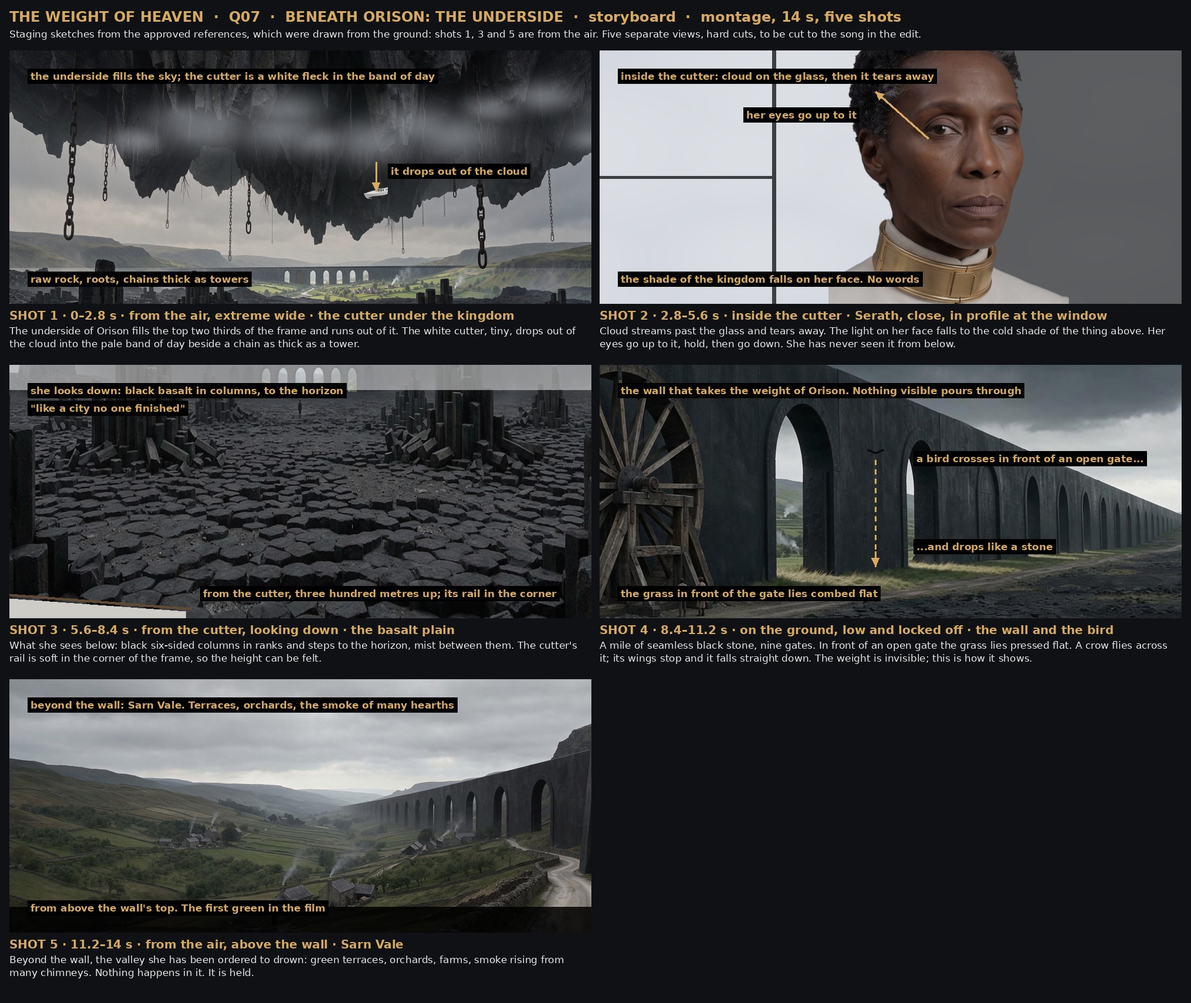
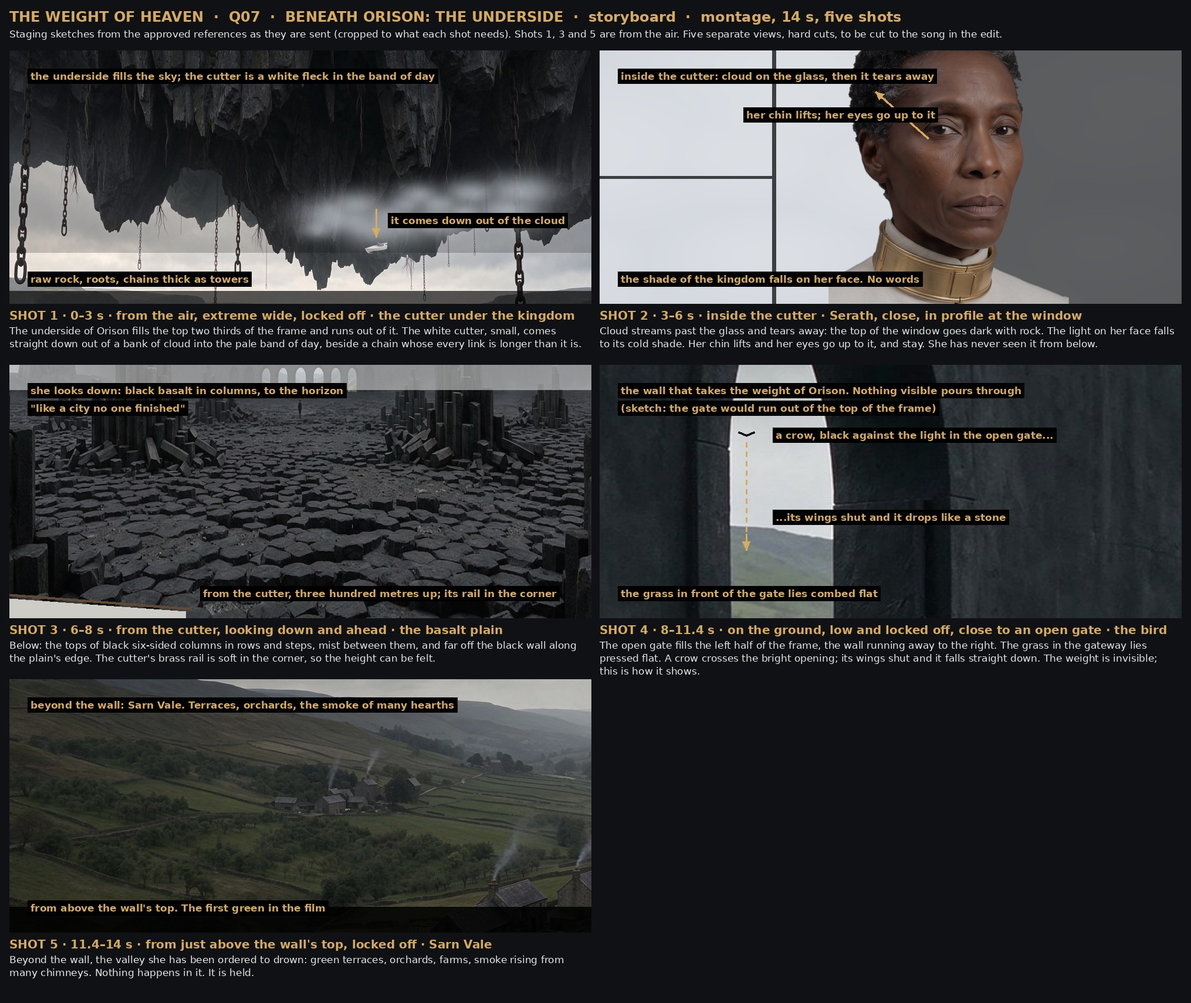
The Weight of Heaven: Q07 package revised after the independent review; not run
Same five shots and the approved 14 s. The four places are attached as crops
that hold only what each shot needs (no water wheel, no people, one wall); the
cutter as one view. Shot 4 is closer, the bird black against the bright gate;
shot 2 ends on her look up; shots 1 and 5 are locked off. The author's go came
before these changes, so the take waits for a go on the revised package.
Lessons 111-112.

Claude-Session: https://claude.ai/code/session_01Ufmw2p65L6HH4goCKZmAJH

diff --git a/ai-film/the-weight-of-heaven/tools/board_q07.py b/ai-film/the-weight-of-heaven/tools/board_q07.py
@@ -20,7 +20,7 @@ img, arr, note, arrow, GOLD, INK, PAPER, BOLD, REG = b4.img, b4.arr, b4.note, b4
 
 
 def env(name, box):
-    """A crop of an environment reference, as fractions of its width and height (x0, y0, x1, y1), at the frame's shape."""
+    """A crop of a reference, as fractions of its width and height (x0, y0, x1, y1), at the frame's shape."""
     im = Image.open(P('refs', name)).convert('RGB'); w, h = im.size
     return arr(im.crop((int(box[0] * w), int(box[1] * h), int(box[2] * w), int(box[3] * h))).resize((W, H), Image.LANCZOS))
 
@@ -45,7 +45,7 @@ def sheet(cells, path):
     S = Image.new('RGB', (pad * 2 + W * 2 + gap, hd + rows * (H + cap) + pad), INK)
     d = ImageDraw.Draw(S)
     d.text((pad, 14), 'THE WEIGHT OF HEAVEN  ·  Q07  ·  BENEATH ORISON: THE UNDERSIDE  ·  storyboard  ·  montage, 14 s, five shots', fill=GOLD, font=f0)
-    d.text((pad, 48), 'Staging sketches from the approved references, which were drawn from the ground: shots 1, 3 and 5 are from the air. '
+    d.text((pad, 48), 'Staging sketches from the approved references as they are sent (cropped to what each shot needs). Shots 1, 3 and 5 are from the air. '
                       'Five separate views, hard cuts, to be cut to the song in the edit.', fill=PAPER, font=f2)
     for k, (im, title, text) in enumerate(cells):
         x = pad + (k % 2) * (W + gap); y = hd + (k // 2) * (H + cap)
@@ -65,13 +65,14 @@ def sheet(cells, path):
 def main():
     boat = cutter()
     # 1. the cutter drops out of the cloud under the mass
-    a = env('ENV_E04_beneath-orison.jpg', (0.0, 0.0, 1.0, 0.72))
-    a[:int(H * 0.86)] = a[:int(H * 0.86)] * 0.78                                   # the mass two stops under the band, roughly
-    a = b4.mist(a, W * 0.62, H * 0.30, W * 0.9, H * 0.16, seed=4, amount=0.55, tone=(0.74, 0.76, 0.79))
-    a = b4.over(a, boat, cx=W * 0.63, foot=H * 0.585, height=20)
+    a = env('crops/Q07_underside.jpg', (0.0, 0.0, 1.0, 1.0))                       # the reference as it is sent: the underside and the band only
+    a[:int(H * 0.80)] = a[:int(H * 0.80)] * 0.80                                   # the mass two stops under the band, roughly
+    a[int(H * 0.95):] = a[int(H * 0.95):] * 0.35                                   # a thin strip of the plain
+    a = b4.mist(a, W * 0.63, H * 0.66, W * 0.22, H * 0.12, seed=4, amount=0.8, tone=(0.74, 0.76, 0.79))
+    a = b4.over(a, boat, cx=W * 0.63, foot=H * 0.80, height=19)
     c1 = img(a); d = ImageDraw.Draw(c1)
     note(d, (36, 34), 'the underside fills the sky; the cutter is a white fleck in the band of day')
-    arrow(d, (625, 190), (625, 240), w=3); note(d, (650, 196), 'it drops out of the cloud')
+    arrow(d, (625, 270), (625, 318), w=3); note(d, (650, 280), 'it comes down out of the cloud')
     note(d, (36, 380), 'raw rock, roots, chains thick as towers')
     # 2. her face at the window
     g = np.zeros((H, W, 3), np.float32) + np.array([0.80, 0.82, 0.85], np.float32)
@@ -81,7 +82,7 @@ def main():
     c2 = img(g); d = ImageDraw.Draw(c2)
     d.line([(int(W * 0.30), 0), (int(W * 0.30), H)], fill=(60, 62, 66), width=7); d.line([(0, int(H * 0.50)), (int(W * 0.30), int(H * 0.50))], fill=(60, 62, 66), width=5)
     note(d, (36, 34), 'inside the cutter: cloud on the glass, then it tears away')
-    arrow(d, (560, 150), (470, 70), w=4); note(d, (250, 100), 'her eyes go up to it')
+    arrow(d, (560, 150), (470, 70), w=4); note(d, (250, 100), 'her chin lifts; her eyes go up to it')
     note(d, (36, 380), 'the shade of the kingdom falls on her face. No words')
     # 3. the plain from the cutter's height
     a = env('ENV_E05_basalt-plain.jpg', (0.10, 0.52, 0.90, 1.0)); a = a * 0.9
@@ -92,34 +93,35 @@ def main():
     note(d, (36, 64), '"like a city no one finished"')
     note(d, (330, 380), 'from the cutter, three hundred metres up; its rail in the corner')
     # 4. the wall and the bird
-    a = env('ENV_E06_the-weir.jpg', (0.30, 0.22, 0.86, 0.80))
+    a = env('crops/Q07_wall.jpg', (0.005, 0.385, 0.265, 0.535))                     # close on the first open gate, from the reference as it is sent
     c4 = img(a); d = ImageDraw.Draw(c4)
-    bx, by = 470, 150
+    bx, by = 250, 120
     d.line([(bx - 14, by - 6), (bx, by), (bx + 14, by - 6)], fill=(10, 10, 12), width=4)
-    for yy in range(by + 12, 330, 16):
+    for yy in range(by + 12, 300, 16):
         d.line([(bx, yy), (bx, yy + 8)], fill=GOLD, width=3)
-    arrow(d, (bx, 318), (bx, 344), w=3)
+    arrow(d, (bx, 288), (bx, 316), w=3)
     note(d, (36, 34), 'the wall that takes the weight of Orison. Nothing visible pours through')
-    note(d, (540, 150), 'a bird crosses in front of an open gate...')
-    note(d, (540, 300), '...and drops like a stone')
+    note(d, (36, 64), '(sketch: the gate would run out of the top of the frame)')
+    note(d, (300, 110), 'a crow, black against the light in the open gate...')
+    note(d, (300, 250), '...its wings shut and it drops like a stone')
     note(d, (36, 380), 'the grass in front of the gate lies combed flat')
     # 5. the vale beyond
-    a = env('ENV_E07_sarn-vale.jpg', (0.0, 0.04, 0.80, 0.86))
+    a = env('crops/Q07_vale.jpg', (0.0, 0.14, 1.0, 0.74))                           # the reference as it is sent: the valley only
     a[int(H * 0.90):] = a[int(H * 0.90):] * 0.15                                    # the wall's top, a black edge under us
     c5 = img(a); d = ImageDraw.Draw(c5)
     note(d, (36, 34), 'beyond the wall: Sarn Vale. Terraces, orchards, the smoke of many hearths')
     note(d, (36, 380), 'from above the wall\'s top. The first green in the film')
 
     cells = [
-        (c1, 'SHOT 1 · 0–2.8 s · from the air, extreme wide · the cutter under the kingdom',
-         'The underside of Orison fills the top two thirds of the frame and runs out of it. The white cutter, tiny, drops out of the cloud into the pale band of day beside a chain as thick as a tower.'),
-        (c2, 'SHOT 2 · 2.8–5.6 s · inside the cutter · Serath, close, in profile at the window',
-         'Cloud streams past the glass and tears away. The light on her face falls to the cold shade of the thing above. Her eyes go up to it, hold, then go down. She has never seen it from below.'),
-        (c3, 'SHOT 3 · 5.6–8.4 s · from the cutter, looking down · the basalt plain',
-         'What she sees below: black six-sided columns in ranks and steps to the horizon, mist between them. The cutter\'s rail is soft in the corner of the frame, so the height can be felt.'),
-        (c4, 'SHOT 4 · 8.4–11.2 s · on the ground, low and locked off · the wall and the bird',
-         'A mile of seamless black stone, nine gates. In front of an open gate the grass lies pressed flat. A crow flies across it; its wings stop and it falls straight down. The weight is invisible; this is how it shows.'),
-        (c5, 'SHOT 5 · 11.2–14 s · from the air, above the wall · Sarn Vale',
+        (c1, 'SHOT 1 · 0–3 s · from the air, extreme wide, locked off · the cutter under the kingdom',
+         'The underside of Orison fills the top two thirds of the frame and runs out of it. The white cutter, small, comes straight down out of a bank of cloud into the pale band of day, beside a chain whose every link is longer than it is.'),
+        (c2, 'SHOT 2 · 3–6 s · inside the cutter · Serath, close, in profile at the window',
+         'Cloud streams past the glass and tears away: the top of the window goes dark with rock. The light on her face falls to its cold shade. Her chin lifts and her eyes go up to it, and stay. She has never seen it from below.'),
+        (c3, 'SHOT 3 · 6–8 s · from the cutter, looking down and ahead · the basalt plain',
+         'Below: the tops of black six-sided columns in rows and steps, mist between them, and far off the black wall along the plain\'s edge. The cutter\'s brass rail is soft in the corner, so the height can be felt.'),
+        (c4, 'SHOT 4 · 8–11.4 s · on the ground, low and locked off, close to an open gate · the bird',
+         'The open gate fills the left half of the frame, the wall running away to the right. The grass in the gateway lies pressed flat. A crow crosses the bright opening; its wings shut and it falls straight down. The weight is invisible; this is how it shows.'),
+        (c5, 'SHOT 5 · 11.4–14 s · from just above the wall\'s top, locked off · Sarn Vale',
          'Beyond the wall, the valley she has been ordered to drown: green terraces, orchards, farms, smoke rising from many chimneys. Nothing happens in it. It is held.'),
     ]
     sheet(cells, P('design/boards/Q07_board.jpg'))

diff --git a/ai-film/the-weight-of-heaven/prompts/Q07.md b/ai-film/the-weight-of-heaven/prompts/Q07.md
@@ -1,6 +1,6 @@
 # Q07 — Beneath Orison: the underside (B12)
 
-**v1 · images only, the author's AUTEUR VIDEO PROMPT as it will be sent.** Seedance 2.5 on fal, task `reference`, 21:9, 480p, sound on. Scene 5 of the screenplay (actions A31–A35), no dialogue. **Status: package built on the author's word (26 November): "So Q07 now... Remember to check the screenplay, still frame etc for inspiration". An independent review of the prompt is running. Nothing generated. Waiting for the author.**
+**v1 · images only, the author's AUTEUR VIDEO PROMPT as it will be sent.** Seedance 2.5 on fal, task `reference`, 21:9, 480p, sound on. Scene 5 of the screenplay (actions A31–A35), no dialogue. **Status: package built on the author's word (26 November): "So Q07 now... Remember to check the screenplay, still frame etc for inspiration". Staging accepted ("Proceed"). Revised after an independent review (`edit/reviews/Q07_v1_prompt_review.md`): the same five shots at the same 14 s, with the references cropped and three shots reframed. The author's "Go" came before the review reported and before the revised package was shown, so it has not been used. Nothing generated. Waiting for the author's go on the revised package.**
 
 Q07 is the first reel of the second music montage (III. Below). It does not chain from Q06: a montage reel is short separate shots, made by place, and cut to the song in the edit.
 
@@ -21,22 +21,22 @@ Q07 is the first reel of the second music montage (III. Below). It does not chai
 
 | Shot | Time | Picture |
 | --- | --- | --- |
-| 1 | 0–2.8 s | From the air, extreme wide. The underside of Orison fills the top two thirds of the frame; the white cutter, tiny, drops out of the cloud into the pale band of day beside a chain as thick as a tower |
-| 2 | 2.8–5.6 s | Inside the cutter. Serath close, in profile at the window. Cloud tears away from the glass; the shade of the kingdom falls on her face; her eyes go up, then down |
-| 3 | 5.6–8.4 s | From the cutter, looking down. The basalt plain in columns to the horizon, the cutter's rail soft in the corner |
-| 4 | 8.4–11.2 s | On the ground, low, locked off. The black wall and an open gate; the grass in front of it combed flat; a crow crosses and falls straight down |
-| 5 | 11.2–14 s | From the air, just above the wall's top. Sarn Vale: terraces, orchards, farms, the smoke of many hearths. Held |
+| 1 | 0–3 s | From the air, extreme wide, locked off. The underside of Orison fills the top two thirds of the frame; the white cutter, one twenty-fifth of the frame wide, comes straight down out of a bank of cloud into the pale band of day, beside a chain whose every link is longer than it is |
+| 2 | 3–6 s | Inside the cutter. Serath close, in profile at the window. The cloud tears away and the top of the window goes dark with rock; the light on her face falls by half; her chin lifts and her eyes go up to it, and stay |
+| 3 | 6–8 s | From the moving cutter, looking down and ahead. The tops of the basalt columns to the far edge of the plain, where the black wall lies; the cutter's brass rail soft in the corner |
+| 4 | 8–11.4 s | On the ground, low, locked off, close to an open gate that fills the left half of the frame. The grass in the gateway combed flat; a crow, black against the light in the gate, shuts its wings and falls straight down; two seconds of the grass shivering round it |
+| 5 | 11.4–14 s | From just above the wall's top, locked off. Sarn Vale: terraces, orchards, farms, the smoke of many hearths. Held |
 
 ## It is a music montage
 
 - The four montages are cut to an original song (`design/SONG.md`); this one is the song's second verse, "Below": eight bars and a two-bar tag at 84 BPM, 28.6 s, shared with Q08. Q07's share is about four bars, 11.4 s.
-- A bar is 2.86 s. Each shot is generated at 2.8 s so that it can fill a bar or be cut to half of one.
+- A bar is 2.86 s. The cutter, her face and the bird are generated at 3 s or more, so that each can fill a bar after its ends are trimmed; the plain and the valley are shorter and will be half-bars or less. The reviewer recommended 16 s (about $3.53); the take stays at the 14 s and $3.09 the author was shown.
 - **The song does not exist yet.** Its words are still a proposal in `design/SONG.md`, and the plan there is that the song is made first and the montages are cut to it. Movement I was made without it. So these shots are timed to the planned bars and will be recut when there is a song. A question for the author: approve the words and make the song before more montage reels, or carry on and recut later?
 - The video model is asked for natural sound only. The verse that goes over these pictures: "We built it wide, we built it low, / we learned to walk the way you lean; / eight hundred years we held the shade / of gardens we have never seen."
 
 ## Why it is staged this way
 
-- **The thing, then the one who sees it, then what she sees.** The cutter under the mass; her face, eyes up and then down; then down: the plain, the wall, the valley. Cameron's rule that a look is answered by what it looks at.
+- **The one who sees it, and the thing.** Her face, eyes going up; the cutter under the mass; then what is below: the plain, the wall, the valley. Shot 2 ends on her look up, so in the edit the underside can answer it. Cameron's rule that a look is answered by what it looks at.
 - **Size is shown by something small and known.** The cutter is a fleck beside a chain; its rail sits in the corner of the view down; smoke and sheep give the valley its size.
 - **The weight is invisible, so it is shown by what it does.** Flat grass and a bird that falls, the screenplay's own image, as one cause and effect in one frame.
 - **The last shot is the valley she has been ordered to drown, and nothing happens in it.**
@@ -55,26 +55,42 @@ Studied before the board was drawn (lesson 103), on StillsLab: Arrival (98 frame
 | Small things on a vast plain with great structures in haze (Dune, the landing field) | Shot 4: the bird against the wall |
 | A band of light at the horizon under a dark lid; a valley held wide and still under cloud (Arrival) | Every shot is exposed for the band of day; shot 5 is held |
 
+## What the independent review changed
+
+| Finding | Change |
+| --- | --- |
+| The wall's reference carries a water wheel many times a man's height and two people in its left third: both would come into shot 4, and a water wheel beside arches is the strongest water cue there is | The wall is attached as a crop without them (`refs/crops/Q07_wall.jpg`) |
+| Shots 1 and 5 would come back as their references' own ground views, each with a different wall in it (seven arches and a village in one, about fourteen in the other); a sentence saying "these were drawn from the ground" has failed before (lesson 105) | The underside is attached as rock, chains and pale band only (`refs/crops/Q07_underside.jpg`); the valley as terraces, farms and smoke only, two thirds of a stop darker (`refs/crops/Q07_vale.jpg`); the sentence is gone. The wall now comes only from the plain's reference (far) and the wall's (near) |
+| The cutter's sheet is four boats on grey | One view of it (`refs/crops/Q07_cutter.jpg`); "There is one cutter, alone in the sky" |
+| Shot 4: a crow at twenty metres is about 3 % of the frame, black against a black wall, and untimed | Closer: the open gate fills the left half of the frame and the bird is black against the light in it, a twelfth of the frame wide; its fall is timed and the last two seconds are the grass |
+| Shot 2: four changes in 2.8 s, and a change of light with nothing to show on | The window shows the change (cloud, then dark rock above a strip of day); the light on her falls "by half", her face stays readable; her chin lifts as well as her eyes; the shot ends on the look up |
+| Shot 1: at a kilometre the cutter is four pixels and a steady descent moves it six | "One twenty-fifth of the frame wide, but plainly a white boat with a spire"; the cloud it leaves is placed in the frame; locked off |
+| The ceiling was said to hang over everything, but Sarn Vale lies beyond it under open cloud; the wall was two hundred metres high in one shot | The lock says the mass hangs over the plain, the wall is thirty metres high, the valley lies beyond and lower; shot 5 is forty metres up |
+| Words that name things no frame should show: "great wall", "white marble", "full of people", "cockpit", "a city", "sinks" of a boat | "The black wall"; the rest reworded or gone |
+| Checked and left: the template, the five shots and their order, Serath's and the cutter's descriptions, the colour block, no word "weir" anywhere | |
+
+Not taken up: 16 s instead of 14 (it costs $0.44 more than the author was shown); painting a lone figure out of the plain's reference (an edit of an approved image; he may appear, very small, in shot 3).
+
 ## References, in attach order
 
 | # | Image | Use |
 | --- | --- | --- |
-| @Image 1 | `refs/ENV_E04_beneath-orison.jpg` | The underside and the light under it |
-| @Image 2 | `refs/ENV_E05_basalt-plain.jpg` | The basalt plain |
-| @Image 3 | `refs/ENV_E06_the-weir.jpg` | The wall of nine gates |
-| @Image 4 | `refs/ENV_E07_sarn-vale.jpg` | Sarn Vale |
-| @Image 5 | `refs/SHIP_V04_cutter.jpg` | The cutter |
+| @Image 1 | `refs/crops/Q07_underside.jpg` | ENV_E04 cropped to the underside, its chains and the pale band |
+| @Image 2 | `refs/ENV_E05_basalt-plain.jpg` | The basalt plain, whole (the wall far off at its edge) |
+| @Image 3 | `refs/crops/Q07_wall.jpg` | ENV_E06 cropped: the wall from its first open gate, no wheel, no people |
+| @Image 4 | `refs/crops/Q07_vale.jpg` | ENV_E07 cropped to the valley, farms and smoke; two thirds of a stop darker |
+| @Image 5 | `refs/crops/Q07_cutter.jpg` | SHIP_V04, one view |
 | @Image 6 | `refs/CHAR_C01_serath.jpg` | Serath |
 
-No video and no audio reference. No new reference image has to be made.
+No video and no audio reference. No new reference image has been generated: four are crops of approved ones.
 
 ## Parameters and cost
 
 ```
 python3 tools/fal_run.py --name Q07_t1 --prompt prompts/sent/Q07_v1.txt \
-  --image refs/ENV_E04_beneath-orison.jpg --image refs/ENV_E05_basalt-plain.jpg \
-  --image refs/ENV_E06_the-weir.jpg --image refs/ENV_E07_sarn-vale.jpg \
-  --image refs/SHIP_V04_cutter.jpg --image refs/CHAR_C01_serath.jpg \
+  --image refs/crops/Q07_underside.jpg --image refs/ENV_E05_basalt-plain.jpg \
+  --image refs/crops/Q07_wall.jpg --image refs/crops/Q07_vale.jpg \
+  --image refs/crops/Q07_cutter.jpg --image refs/CHAR_C01_serath.jpg \
   --param task=reference --param duration=14 --param aspect_ratio=21:9 --param draft=true \
   --param generate_audio=true --param return_last_frame=false
 ```
@@ -85,9 +101,9 @@ python3 tools/fal_run.py --name Q07_t1 --prompt prompts/sent/Q07_v1.txt \
 
 | Risk | What protects against it |
 | --- | --- |
-| The four places were drawn from the ground and three shots are from the air: the model may copy the ground views (lessons 105 and 108) | Each aerial shot names its height and what fills the frame; the lock says the references were drawn from the ground |
+| Three shots are from the air and no reference is: the model has not been asked for an aerial view in this production | The references are cropped to what each shot needs, so that copying them helps; each shot says what fills the frame |
 | The cutter comes back as a boat on a stand, or with a sail or an engine | "It hangs in the air level and quiet, keel down"; it is a fleck in shot 1 and only a rail in shot 3 |
-| The bird swoops or glides | "its wings stop and it falls straight down, vertically, as fast as a dropped stone" |
+| The bird swoops or glides, or cannot be seen | It is black against the bright gate, a twelfth of the frame wide; "its wings snap shut against its body and it drops straight down as dead weight"; timed |
 | Water at the wall | The word weir is nowhere in the prompt; "dry ground" is in the locks |
 | Serath's close-up does not match the film | Her sheet is attached; this is a new set-up in a new light |
 | The cloud and smoke come back frozen | `tools/cloud_drift.py` can move them afterwards where the camera is still |

diff --git a/ai-film/the-weight-of-heaven/edit/reviews/Q07_v1_prompt_review.md b/ai-film/the-weight-of-heaven/edit/reviews/Q07_v1_prompt_review.md
@@ -1,0 +1,20 @@
+# Q07 v1: independent review of the prompt before it is paid for
+
+A fresh reader with no part in the draft, 26 November. Read-only. It read the prompt, opened the six reference images at full size, the storyboard, the screenplay's scene 5, the shot list and song plan, the lessons, the earlier montage prompts and their results, and frames of the film as cut v16. Verdict: **send after the listed changes.** They are made in `prompts/sent/Q07_v1.txt`; the table of what changed is in `prompts/Q07.md`.
+
+## Findings, most damaging first
+
+1. **The wall's reference puts a water wheel and two people into shot 4.** ENV_E06's left third is a bucketed wheel many times a man's height with two figures at its foot; shot 4's own framing sentence described that composition. Attach a crop from the first open gate rightward (x 1420–3276).
+2. **Shots 1 and 5 would come back as their references, each with a different wall.** ENV_E04's lower third shows a seven-arch viaduct with a village on the near side; ENV_E07 shows the wall as a viaduct of about fourteen arches down the valley's side, and is the one flat, evenly lit plate. The four plates show four different walls. Attach E04 as underside and band only (x 283–2993, y 0–820) and E07 as valley only (x 0–1480, y 330–1404), two thirds of a stop darker; delete the sentence about the references being drawn from the ground. Judgement, not measurement: no aerial has been asked of this model here.
+3. **Shot 4: the bird is black on black, about 3 % of the frame, and untimed.** Move the camera close to the open gate so that it fills the left half of the frame and the bird is against the light in it; time the fall; give the last two seconds to the grass.
+4. **Shot 2: four changes in 2.8 s, and the change of light has nothing to show on.** Say what the window shows before and after; keep her face readable; move the chin as well as the eyes; add "a grey studio backdrop" to the negatives; say she is alone and seen nowhere else.
+5. **Shot 1 is a still by its own numbers.** At a kilometre on a 24 mm lens the cutter is four pixels. Give its size in the frame, place the cloud it leaves, lock the camera off, and attach one view of the cutter, not the four-view sheet. "Sinks", used five times of a boat, is a water word.
+6. **No shot can fill a bar.** A bar is 2.857 s and the ends of every shot are trimmed; returned lengths drift. Recommended 16 s (about $3.53); a same-money alternative at 14 s gives the time to the cutter, the face and the bird. **The 14 s alternative was used: it is what the author was shown.**
+7. **Scale and sky contradict each other between shots.** The mass hangs over the plain, not over Sarn Vale (the floating rock was taken out of that reference on purpose); the wall is about a hundred feet high, so "two hundred metres up" above it is wrong; "looking steeply down" contradicts a strip of horizon.
+8. **Words that name things no frame should show:** "the great wall", "a kingdom of white marble", "full of people", "a cockpit window", "the stumps of a city", "ranks", "lanes and squares".
+
+Not taken up: painting the lone figure out of ENV_E05 (an edit of an approved image).
+
+## Checked and found sound
+
+The template against Q06's; the five shots as the screenplay's five beats in order, none redundant; no song, music or text asked of the model; "Weir" nowhere in the text sent; Serath's and the cutter's descriptions against their sheets; the colour block.

diff --git a/ai-film/the-weight-of-heaven/design/DECISIONS.md b/ai-film/the-weight-of-heaven/design/DECISIONS.md
@@ -81,7 +81,7 @@ Settled with the author. Started 2026-11-25. Sources: the screenplay, third draf
 | Q06 package (the end of the council) | The author (26 November): "Now let's proceed to next scene". Built for approval, nothing generated: 22 s, six shots, six images, about $4.85; revised after a study of Villeneuve's frames on StillsLab (the author asked whether it had been done; it had not) and an independent review. `prompts/Q06.md`, `prompts/sent/Q06_v1.txt`, `design/boards/Q06_board.jpg`. Two choices were put to the author (does the Hierophant turn his head to her; whose seal is it), and settled the same day: "Do what fit what have been generated". So he faces forward, as in Q04 and Q05, and the seal is Serath's own ring in red wax, as at the wedding. |
 | Q06 take 1 | The author (26 November), on the final prompt: "Go". One take, 22 s, about $4.85; `out/takes/Q06_t1.mp4`. Accepted the same day, less its seal shot. |
 | Film cut v16: Q06 joined on, the seal cut | The author (26 November), on Q06 take 1: the seal came back as the wedding's seal over again; "we can cut it out of the film... Everything else is good... Then merge to the compile". Q06 without its seal shot, joined to Q05 as one continuous shot of Serath; one gain on its sound, the drone out of the gaps; voices and faces untouched. `out/review/film_v16.mp4`, 124.9 s; record `edit/film_v16.md`. |
-| Q07 package (beneath Orison) | The author (26 November): "So Q07 now... Remember to check the screenplay, still frame etc for inspiration". Built for approval, nothing generated: a montage reel of five shots, 14 s, six images, about $3.09; staged from the screenplay's scene 5 and from a study of Arrival, Dune and Blade Runner 2049 on StillsLab. `prompts/Q07.md`, `prompts/sent/Q07_v1.txt`, `design/boards/Q07_board.jpg`. Open with the author: the song the montages are cut to has not been made. |
+| Q07 package (beneath Orison) | The author (26 November): "So Q07 now... Remember to check the screenplay, still frame etc for inspiration". Built for approval, nothing generated: a montage reel of five shots, 14 s, six images, about $3.09; staged from the screenplay's scene 5 and from a study of Arrival, Dune and Blade Runner 2049 on StillsLab. `prompts/Q07.md`, `prompts/sent/Q07_v1.txt`, `design/boards/Q07_board.jpg`. The author: "Proceed", then "Go" before the independent review had reported. The review changed the references (crops) and three framings, so the take was not run on that word; the revised package is shown for a new go. Open with the author: the song the montages are cut to has not been made. |
 | Video model (proposed) | Seedance 2.5 on fal, 21:9, as for Oren: drafts at 480p, finals from the chosen draft; at Oren's rate (about $0.22 a second) one final pass of all 26 generations is about $100. Awaiting the author. |
 | Branch | This session works on `ccr-0244e8fe-7z8rbw` (the environment's required branch) rather than a branch named after the slug; it merges to `main` only when the author signs the film off. |
 

diff --git a/ai-film/the-weight-of-heaven/LESSONS.md b/ai-film/the-weight-of-heaven/LESSONS.md
@@ -216,6 +216,13 @@ The author (26 November): "Pls restore back Hierophant voice", and of the Engine
 | 109 | **An invented name can come back mispronounced.** Two listening passes heard "Cassilin's" for "Cassiel's". A name the model has not met wants a spelling that can only be said one way, or a plan to repair it in sound; this one is off-screen, so it can be. | Q06 t1 shot 2. | Every line with an invented name (Marl, Karst, Sarn, Orison). |
 | 110 | **A shot that repeats an earlier one can simply go, and say what goes with it.** The seal came back as the first seal over again; the author cut it, and the scene is tighter. What the cut takes out of the story has to be said at the same time: here, what Cassiel was waiting for. | Q06 t1 shot 5, cut v16. | Every shot cut for a fault. |
 
+## From building Q07's package
+
+| # | Lesson | Where it came from | Applies to |
+|---|---|---|---|
+| 111 | **Open every environment reference at full size and list what is in it before attaching it.** Three of Q07's four places carried something the prompt never mentions: a water wheel and two people beside the wall, a village and a seven-arch viaduct under the underside, a lone man on the plain. What is in an attached image comes back (lesson 105). Crop the reference to what the shot needs; a sentence asking the model to ignore the rest does not work. | Q07, the independent review, 26 November. | Every reference. |
+| 112 | **A "Go" given before the package is final does not cover what changes afterwards.** The author said "Go" while the review was still running. The review changed the references and three framings; I started the take on the earlier word and the session's own safety check stopped it. It was right: an approval covers the package that was shown. Show the revised package and wait. | Q07, 26 November. | Every paid generation. |
+
 ## From *My Name Is Oren*, applied here
 
 | Oren # | Lesson, short | How it is applied |
